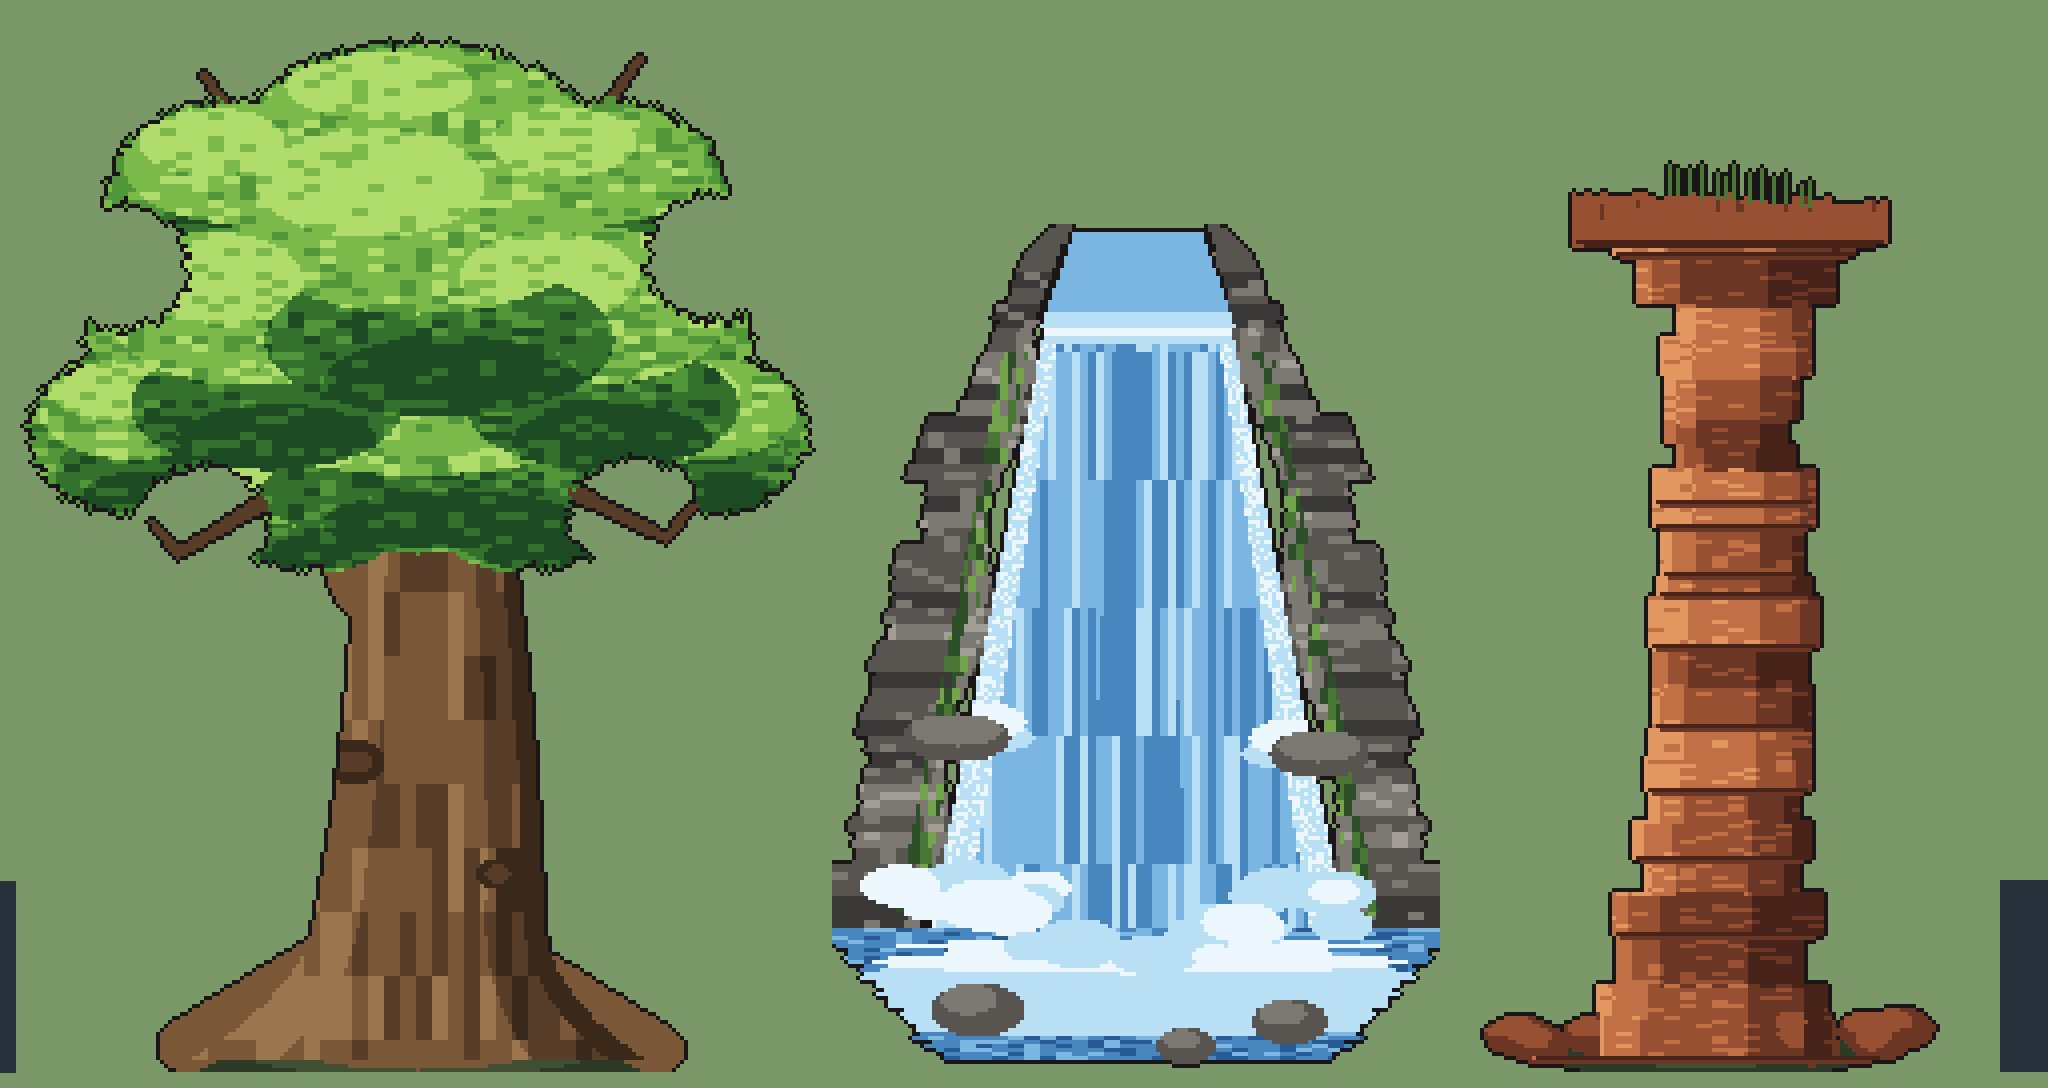
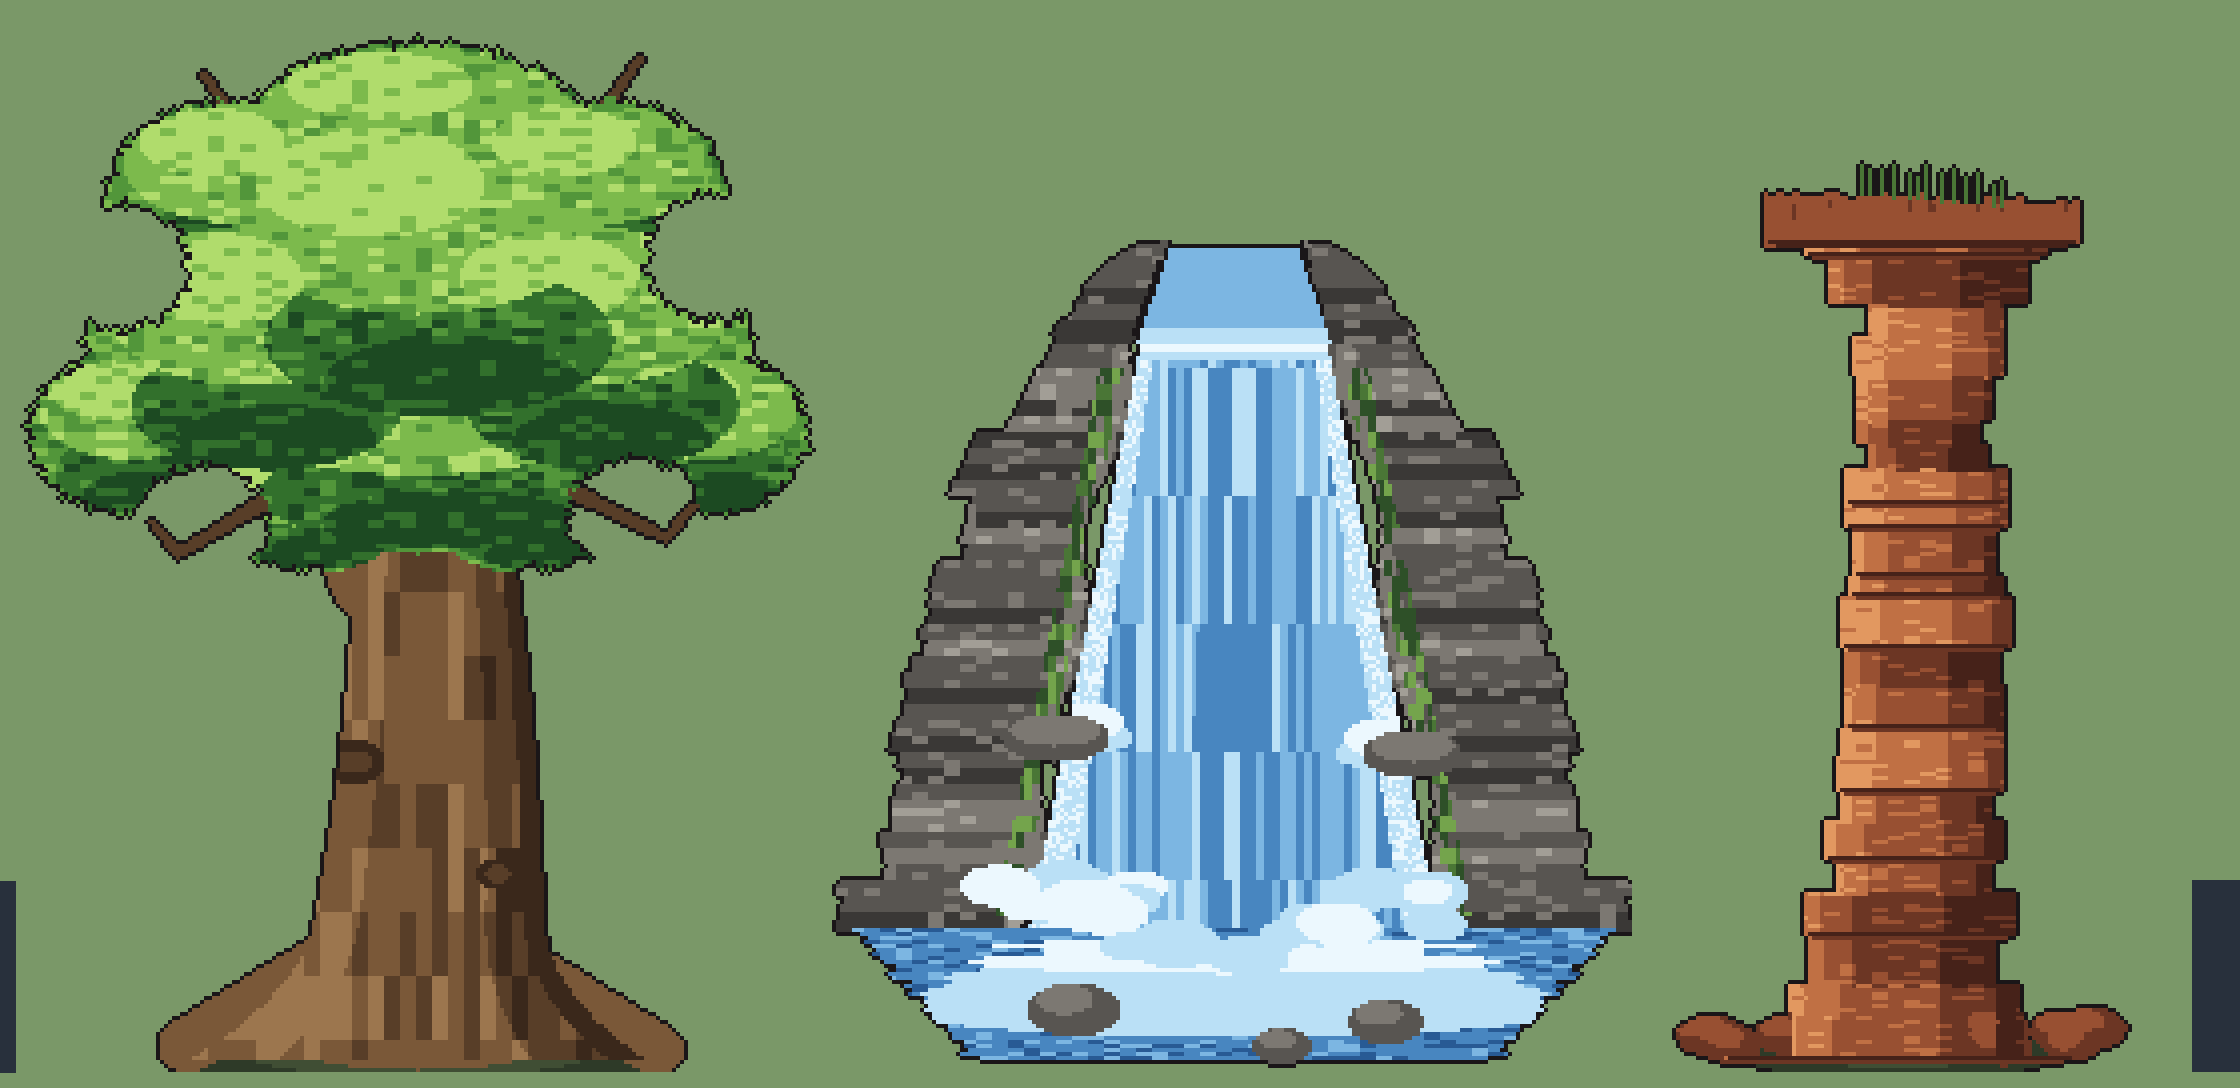
큰폭포를 절벽처럼 넓혔다 — 서 있는 달걀이었다
폭 9.5칸 -> 12.5칸. 바위 덩어리가 밑으로 갈수록 크게 벌어지게 했다.
좁고 완만하게 넓히니 절벽이 아니라 풀밭에 세워 둔 달걀 하나였다 —
절벽은 좌우로 뻗은 벽이지 세워 둔 물건이 아니다.

넓어진 만큼 밑동 막는 칸(block)과 비워 두는 반지름(clear)도 맞췄다.

Claude-Session: https://claude.ai/code/session_01MD13E75HPivDdRkjb6eaTR

diff --git a/game/assets/ref/make_landmarks.js b/game/assets/ref/make_landmarks.js
@@ -8,8 +8,8 @@
 // 가장자리에 그것이 걸치는 순간 「저기 뭐지」가 되고, 그게 걸어갈 이유다.
 //
 //   greattree  큰나무 숲   — 산만 한 나무 한 그루 (화면 12.5칸 x 16.5칸)
-//   falls      폭포골      — 두 단으로 쏟아지는 큰 폭포 (9.4칸 x 13칸)
-//   spire      붉은바위    — 층층이 깎인 바위 기둥 (7.5칸 x 14.4칸)
+//   falls      폭포골      — 두 단으로 쏟아지는 큰 폭포 (12.5칸 x 13칸)
+//   spire      붉은바위    — 층층이 깎인 바위 기둥 (7.75칸 x 14.5칸)
 //
 // 도트 크기는 **건물·사람과 같다.** 논리 한 칸 = 원본 4px, 게임에서 0.5배로
 // 얹으니 화면에서 2px이다 (make_buildings.js 와 같은 규칙). 이 규칙을 어기면
@@ -320,11 +320,11 @@ function greatTree() {
 //   * 떨어지는 물의 세로 줄기 — 굵기가 제각각이라야 흐르는 것 같다
 //   * 밑에서 튀어 오르는 흰 물보라 (여기가 없으면 물이 땅에 스민다)
 function bigFalls() {
-  const W = 152, H = 212, CX = 76, GY = H - 4;
+  const W = 200, H = 208, CX = 100, GY = H - 4;
   const g = new G(W, H);
   const LIP = 26;            // 물이 넘어가는 마루
-  const LEDGE = 128;         // 중간 단 (여기서 한 번 부딪혀 갈라진다)
-  const POOL = 176;          // 물웅덩이 수면
+  const LEDGE = 124;         // 중간 단 (여기서 한 번 부딪혀 갈라진다)
+  const POOL = 172;          // 물웅덩이 수면
 
   // ---- 바위벽 ----
   //
@@ -335,9 +335,11 @@ function bigFalls() {
   // 바위는 **덩어리(massif)** 다. 위는 좁고 밑으로 갈수록 벌어지며,
   // 바깥 윤곽은 들쭉날쭉하다. 그 실루엣이 먼저 보여야 「절벽에서 물이
   // 떨어진다」가 된다.
+  // 밑으로 갈수록 **크게** 벌어진다. 처음엔 완만하게 넓혔더니 서 있는
+  // 달걀 하나가 됐다 — 절벽은 좌우로 뻗은 벽이지 세워 둔 물건이 아니다.
   const massifHalf = (y) => {
     const t = Math.min(1, Math.max(0, y / POOL));
-    return 24 + Math.pow(t, 0.62) * (W / 2 - 20);
+    return 22 + Math.pow(t, 0.5) * (W / 2 - 26);
   };
   // 물길 — 아래로 갈수록 벌어진다 (평행하면 수로가 된다)
   const gapAt = (y) => 24 + (y - LIP) * 0.19;
